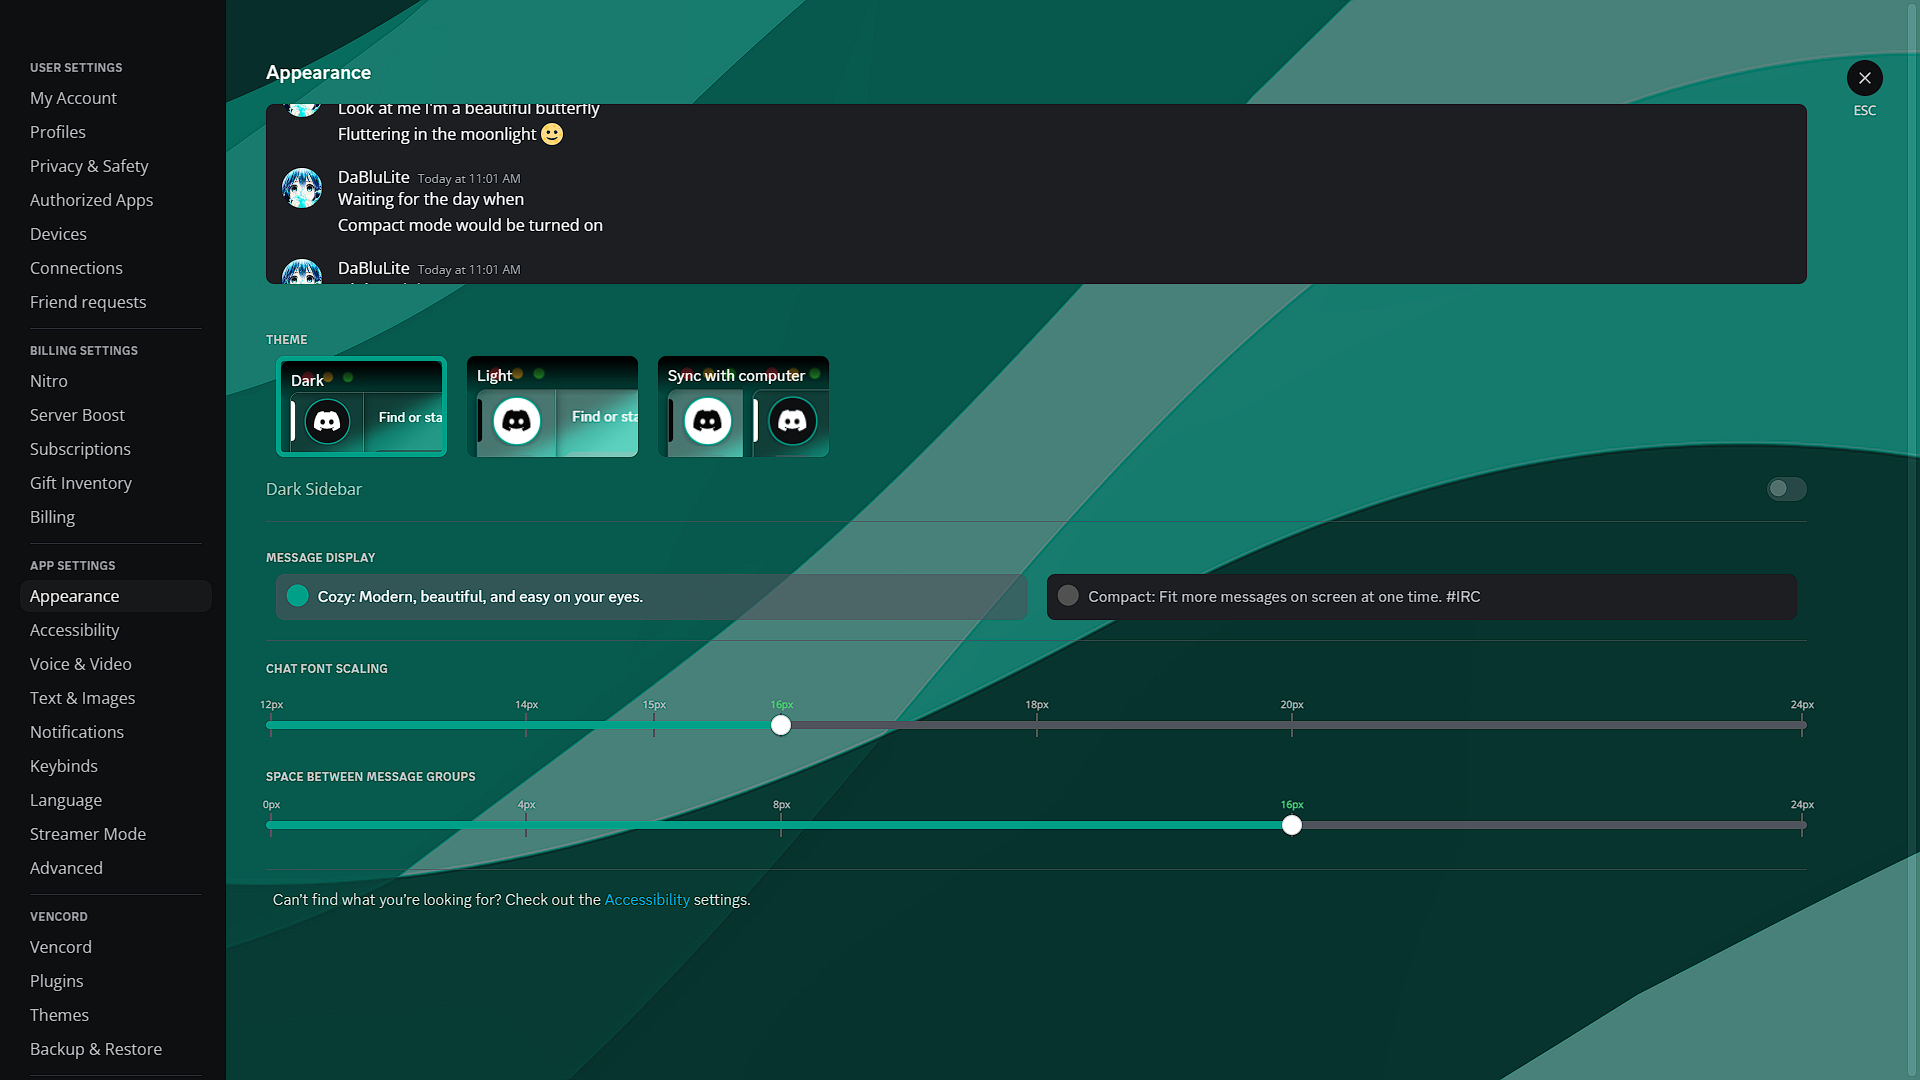
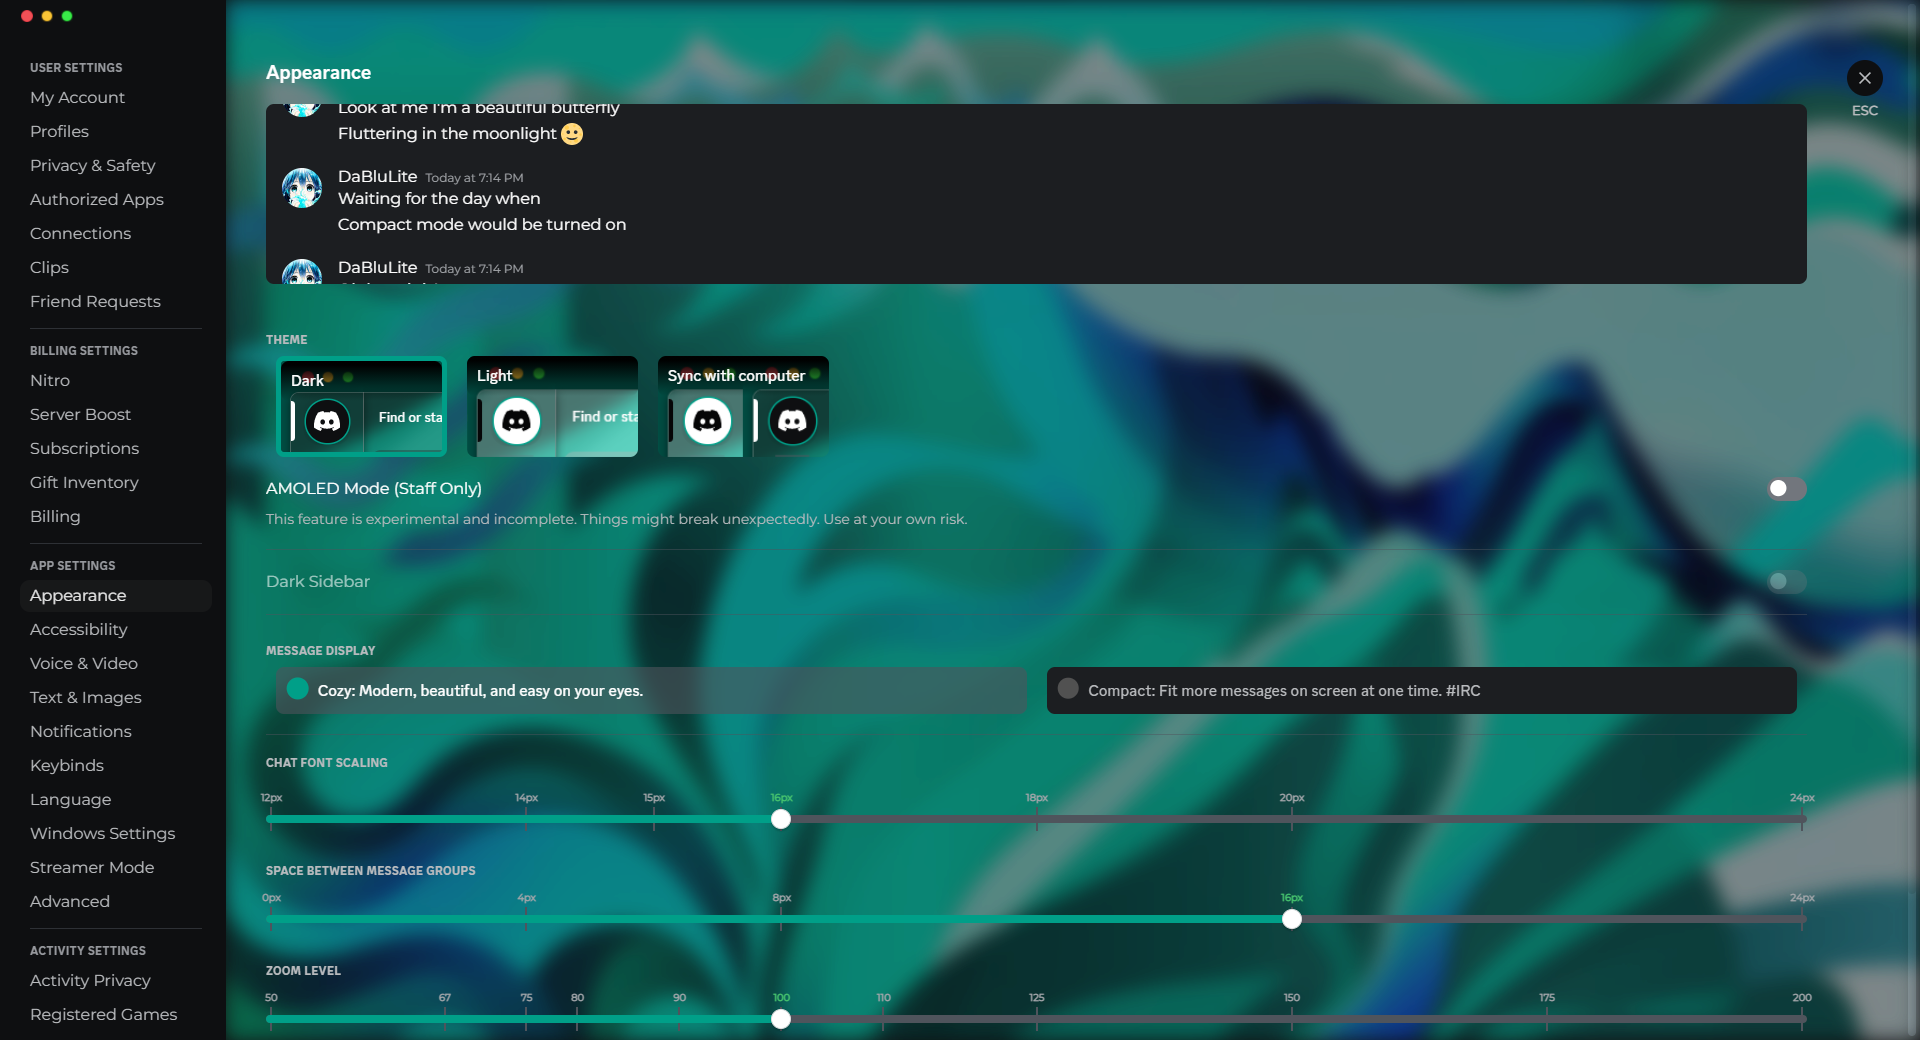
Intended Version Bump to 5.3.0

diff --git a/import.css b/import.css
@@ -2026,3 +2026,96 @@ div:not([class="tutorialContainer-1pL9QS"]) .wrapper-3kah-n .childWrapper-1j_1ub
 .bd-controls>.bd-addon-button:first-of-type {
     border-radius: 8px 0 0 8px;
 }
+/*New BD Addon Cards*/
+:root {
+  --cyan-x: "M2.146 2.854a.5.5 0 1 1 .708-.708L8 7.293l5.146-5.147a.5.5 0 0 1 .708.708L8.707 8l5.147 5.146a.5.5 0 0 1-.708.708L8 8.707l-5.146 5.147a.5.5 0 0 1-.708-.708L7.293 8 2.146 2.854Z";
+  --cyan-check: "M13.854 3.646a.5.5 0 0 1 0 .708l-7 7a.5.5 0 0 1-.708 0l-3.5-3.5a.5.5 0 1 1 .708-.708L6.5 10.293l6.646-6.647a.5.5 0 0 1 .708 0z";
+}
+.bd-addon-card {
+  border-radius: 16px !important;
+  border: 1px solid rgb(200,200,200,.2);
+  background: var(--background-secondary-alt) !important;
+}
+.bd-search-wrapper {
+  background: var(--background-secondary-alt);
+  border-radius: 16px !important;
+  border: 1px solid rgb(200,200,200,.2);
+  padding: 10px;
+}
+.bd-controls-advanced {
+  border-bottom: 1px solid rgb(200,200,200,.2);
+  padding-bottom: 10px;
+}
+.bd-controls>.bd-addon-button {
+  padding: 5px;
+}
+.bd-button.bd-addon-button:not(.bd-button-danger) {
+  background-color: var(--brand-experiment);
+}
+.bd-controls>.bd-addon-button:first-of-type {
+  border-radius: 8px 0 0 8px;
+  border-right: none;
+}
+.bd-controls>.bd-addon-button:last-of-type {
+  border-radius: 0 8px 8px 0;
+  border-left: none;
+}
+.bd-switch input+.bd-switch-body .bd-switch-slider {
+  left: -2px !important;
+  top: 2px;
+}
+.bd-switch-body {
+  width: 28px;
+  height: 28px;
+}
+.bd-switch-slider rect {
+  display: none;
+}
+.bd-switch-body {
+  --symbol2path: path(var(--cyan-x));
+}
+.bd-switch .bd-switch-symbol path:first-child {
+  display: none;
+}
+.bd-switch input:checked+.bd-switch-body {
+  --symbol1path: path();
+  --symbol2path: path(var(--cyan-check));
+}
+.bd-switch input:checked+.bd-switch-body .bd-switch-symbol > path:last-child {
+  fill: #fff !important;
+  transform: scale(1.4);
+  transform-origin: 3px -2px;
+}
+.bd-switch .bd-switch-symbol path {
+  fill: #fff !important;
+  transform: scale(1.2);
+  transform-origin: -4px -2px;
+}
+.full-motion .bd-switch input:active+.bd-switch-body, .full-motion .bd-switch input:checked:active+.bd-switch-body {
+  --symbol2path: path();
+}
+.bd-addon-list.bd-grid-view .bd-addon-card {
+  width: calc(100%);
+}
+.bd-addon-list.bd-grid-view {
+  grid-template-columns: calc(50% - 5px) auto;
+}
+
+
+/*GIF selector*/
+.categoryFade-3RRG67, .categoryFadeBlurple-1l49_Q, .result-pzZrwj, .gif-2kTiNB {
+  border-radius: 8px !important;
+}
+
+/*"Unsaved Changes" Bar*/
+.actions-2Iq6nn .button-1sjQOW {
+  border: 1px solid var(--cyan-accent-color);
+  border-radius: 8px;
+  text-decoration: none !important;
+}
+.actions-2Iq6nn .button-1sjQOW span {
+  text-decoration: none !important;
+}
+.container-20TyK0 {
+  border-radius: 16px;
+}

diff --git a/Cyan.theme.css b/Cyan.theme.css
@@ -3,7 +3,7 @@
  * @description Sleek and clean, with custom background support
  * @author DaBluLite#7409
  * @authorId 582170007505731594
- * @version 5.0.0
+ * @version 5.3.0
  * @updateUrl https://dablulite.github.io/Cyan/Cyan.theme.css
  * @source https://github.com/DaBluLite/Cyan
  */
@@ -11,17 +11,17 @@
 /*
 Huge thanks to all the contributors of this project!
 
-		    Contributors
+		    		 Contributors
 ====================================================
-=						   =
-=						   =
+=						                           =
+=						                           =
 =           Custom Icons: Bootstrap Icons          =
 =          (Licensed Under the MIT Lisence)        =
 =        Darkened color scheme: maenDisease        =
 =               Code cleanup: lucism               =
 =        Additional code and help by carrot        =
-=						   =
-=						   =
+=						                           =
+=						                           =
 ====================================================
 */
  
@@ -29,11 +29,12 @@ Huge thanks to all the contributors of this project!
 :root {
 	--cyan-background-primary: hsla(0deg 0% var(--cyan-background-lightness) / 40%);
 	--cyan-elevation-shadow: 0 0 0 1px rgba(180,180,180,.4), 0 2px 10px 0 rgb(0 0 0 / 60%);
-	--cyan-font: 'Open Sans';
-	--cyan-background-img: url(https://dablulite.github.io/Cyan/background-dark.jpg);
+	--cyan-font: 'Montserrat';
+	--cyan-background-img: url(https://dablulite.github.io/Cyan/cyan-waves.png);
+	/*for a 4K version of the background use: url(https://dablulite.github.io/Cyan/cyan-waves-4k.png)*/
 	--window-margin: 10;
 	--window-border-radius: 8px;
 	--cyan-accent-color: #009f88;
-	--cyan-blur-radius: 0;
+	--cyan-blur-radius: 10px;
 	--cyan-status-mask-background: var(--profile-body-background-color);
 }
